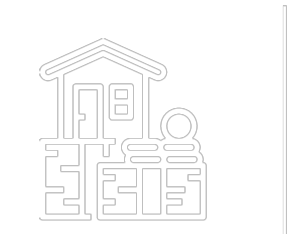
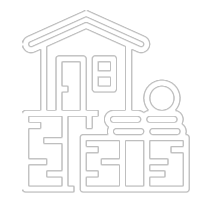
fix image and color text

Changed region(s): [[0.0938, 0.03, 0.875, 0.99], [0.9688, 0.0, 1.0, 1.0]]

diff --git a/frontend/src/navbars/navbar.jsx b/frontend/src/navbars/navbar.jsx
@@ -7,7 +7,10 @@ import backgroundImage from './Wolliz-1.png'
 //navbar component for general pages when logged in
 function Navbar() {
   return (
-    <div>
+    <div
+      style={{
+        color: 'white',
+      }}>
       <nav className='navbar navbar-custom navbar-expand-md'>
         <div className='container-fluid'>
           <div className='navbar-collapse collapse w-100 order-1 order-md-0 dual-collapse2'>
@@ -93,8 +96,8 @@ function Navbar2() {
           </div>
           <div className='mx-auto order-0'>
             <a className='navbar-brand mx-auto' href='#'>
-              <img
-                src='/Wolliz-1.png'
+              <Image
+                src={backgroundImage}
                 alt='Logo'
                 width='30'
                 height='24'
